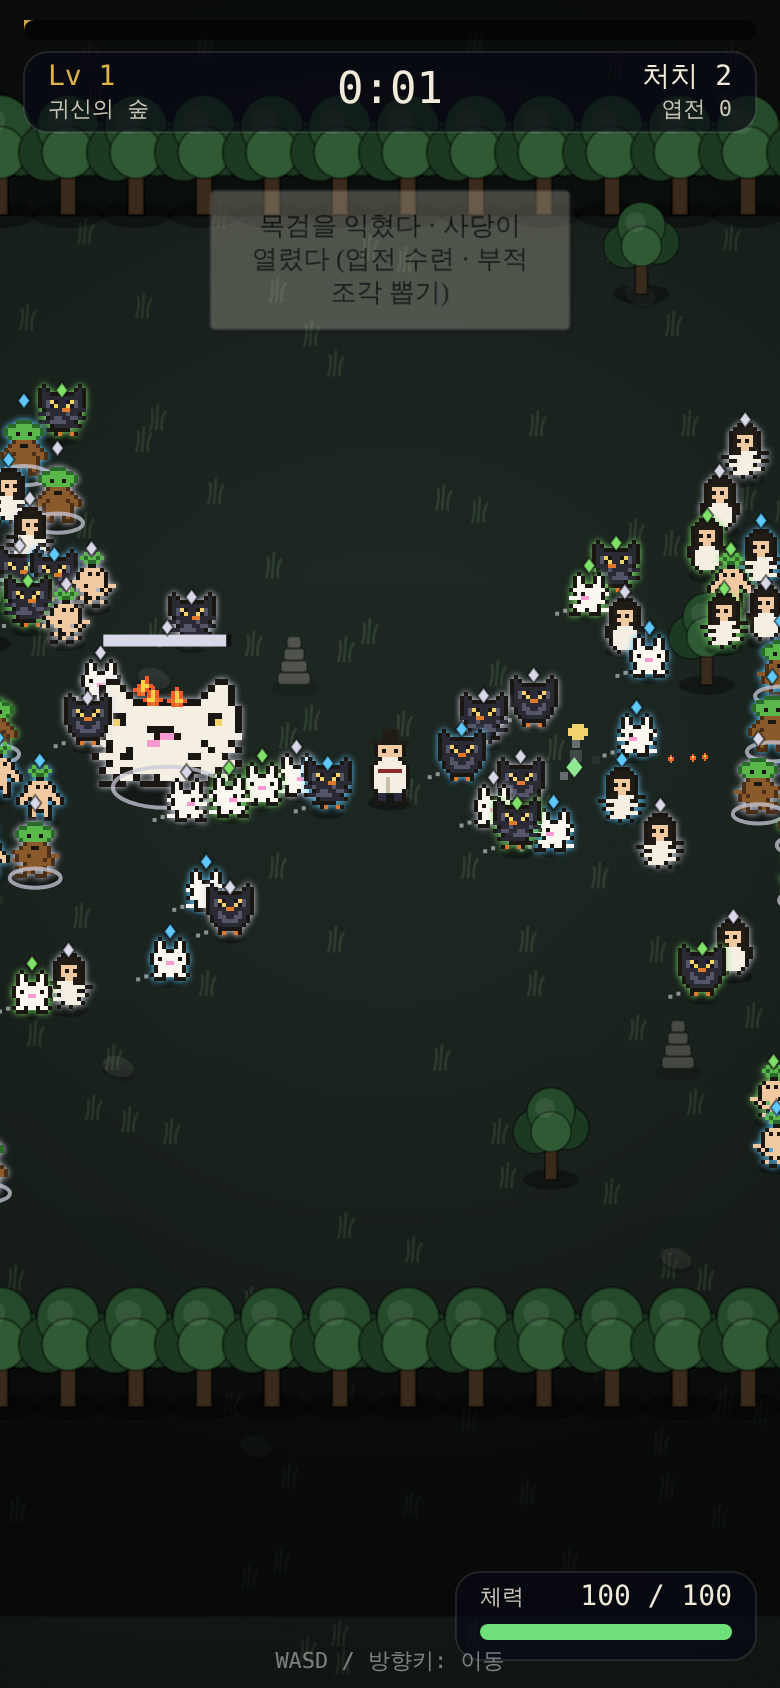
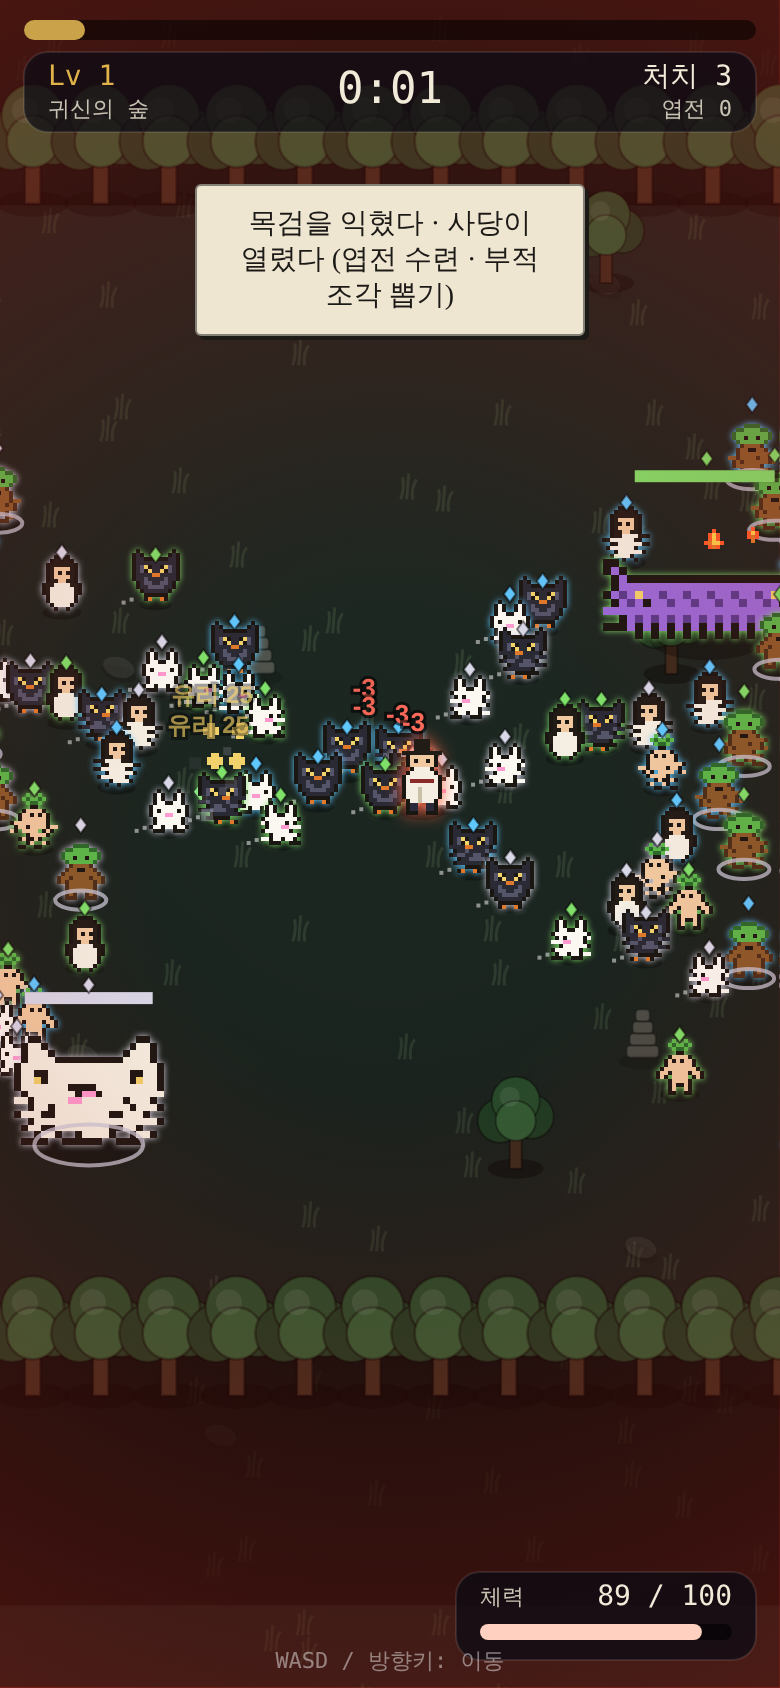
night-exorcist v18: 수련 30단 잘게 쪼개기 (+1%/단, 30×1.09^lv, 진행바, trainV2 마이그레이션)
Claude-Session: https://claude.ai/code/session_01RmJvEQYZMU41pMZMsu4AKq

diff --git a/docs/04-night-exorcist/design.md b/docs/04-night-exorcist/design.md
@@ -201,3 +201,11 @@ challenge(n) = 1 + 0.975·(1 − 0.86^n)     (밤 단계)
 - 봇 3런(초원 메타0 시작덱): 3:05 · 3:09 · 클리어 — 숙련자(호원)는 깨되 긴장이 생길 구간
 - 정예: 랜덤 → 로스터 순서 순환(달걀만 보인다는 피드백 → 5종 다 등장 보장)
 - 종이 호랑이: 벡터 → 달리는 2프레임 픽셀 호랑이
+
+## §24 v18 — 수련 잘게 쪼개기 (호원: "5번 업글하고 끝나면" → 30단)
+
+- 5단 × 큰 폭 → **30단 × 작은 폭**. 단마다 공격 +1% · 체력 +1.2% · 회복 +2% · 이속 +0.6% · 획득 +1.5%. 30단 상한은 종전 5단 총량(+25/30/50/15/40%)보다 약간 큼(+30/36/60/18/45%).
+- 비용 `round(30 × 1.09^lv)`: 30 → 30단째 ≈ 370. 항목당 ≈ 4,100, 다섯 항목 ≈ 20,000 엽전. 한 런 200~300 엽전 → 70런 이상 걸림(종전 6,710 = 20여 런). 한 런마다 서너 단씩 찍히는 "매번 조금 강해짐" 리듬.
+- UI: 점 5개 → 가로 진행바 + `+12%` 누적 표시 + `12/30`. 구매 효과음 levelup → gem(가벼움).
+- 마이그레이션 `trainV2`: 기존 단수 ×5(5단 = 30단 최대). 챌린지 미적용은 그대로.
+- v17 피드백 #4("공격 4단 후 다음 판 너무 쉬움")의 메타 과잉도 이 곡선으로 완화: 한 런 보상으로 공격 +3~4%만.
